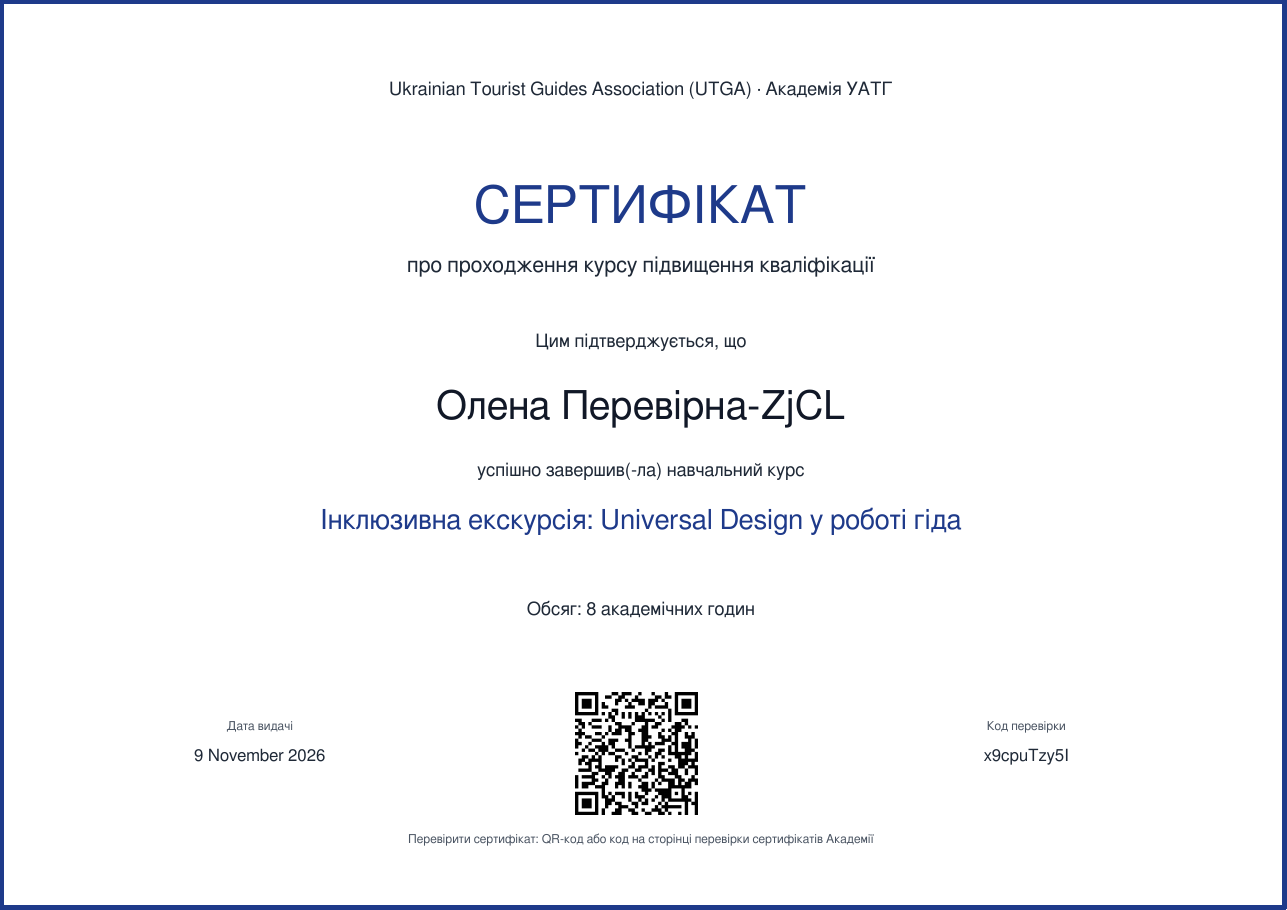
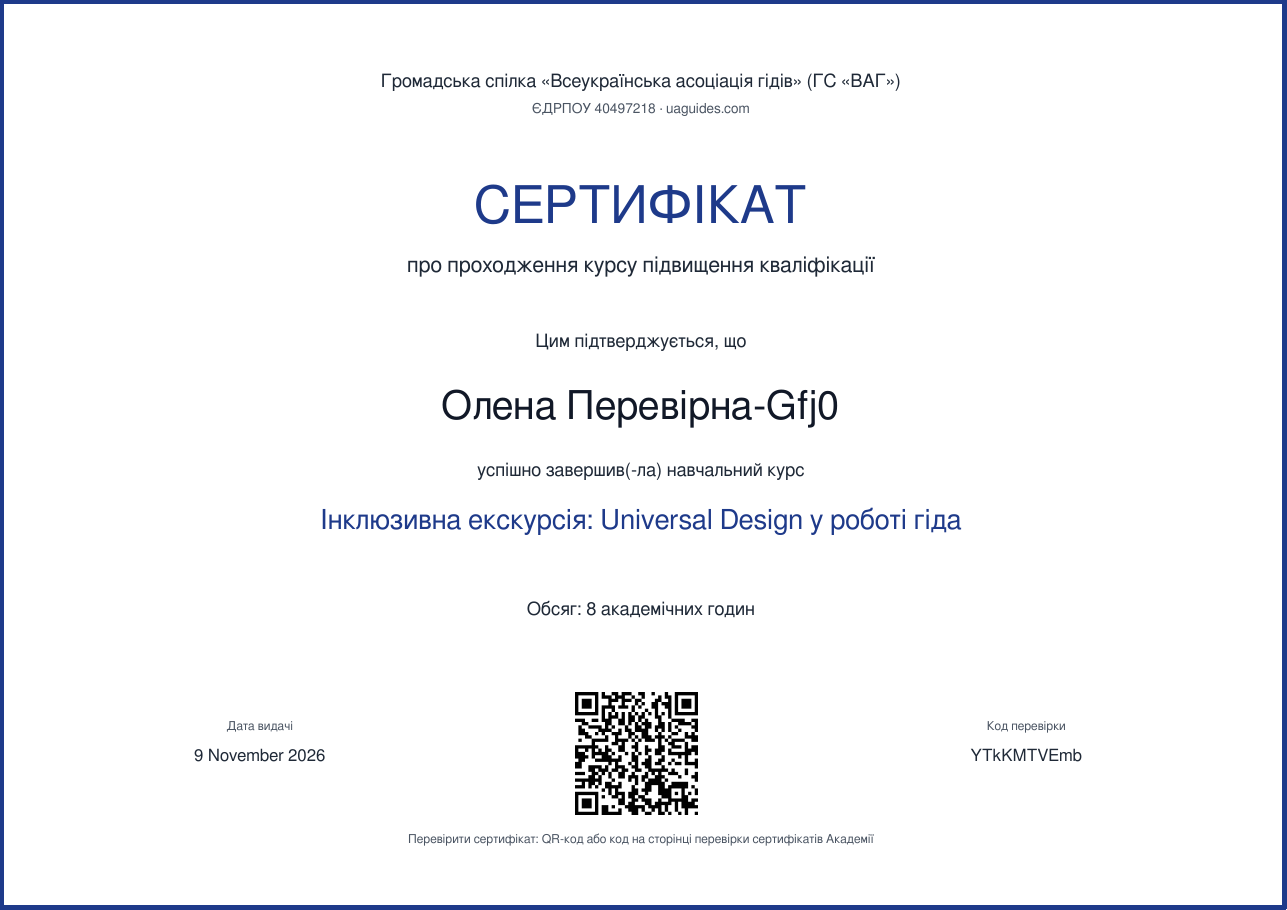
Назва організації: ГС «Всеукраїнська асоціація гідів» (ГС «ВАГ»)
- config/site.json: блок organisation (повна назва, ЄДРПОУ 40497218, uaguides.com),
  видавець бейджів — ГС «ВАГ», issuer_url — https://uaguides.com
- сертифікат: повна назва організації та рядок «ЄДРПОУ · uaguides.com»
- «Академія УАТГ» → «Академія ГС «ВАГ»» у сайті, курсах, документації
- docs/deploy-psgua.md: рекомендація домену academy.uaguides.com
- оновлено знімки екрана й зразок сертифіката

Claude-Session: https://claude.ai/code/session_01WxtPCv2NaZhQq9WMLDJ8PD

diff --git a/provisioning/provision.php b/provisioning/provision.php
@@ -1,5 +1,5 @@
 <?php
-// Академія УАТГ — скрипт налаштування Moodle та збирання курсів з описів у courses/*/course.json.
+// Академія ГС «ВАГ» — скрипт налаштування Moodle та збирання курсів з описів у courses/*/course.json.
 //
 // Запуск (з будь-якої теки):
 //   php -d max_input_vars=5000 provisioning/provision.php --moodle=/шлях/до/moodle [--rebuild] [--only=UTGA-G01]
@@ -396,7 +396,10 @@ function utga_certificate_template(stdClass $cert, array $spec, array $site): vo
     };
 
     $add('border', 'Рамка', '2', 0, 12, 0, 0, 0, '#1E3A8A');
-    $add('text', 'Організація', $site['badges']['issuer_name'] . ' · ' . $site['site']['shortname'], 18, 12, 148, 250);
+    $org = $site['organisation'];
+    $add('text', 'Організація', $org['name_full'] . ' (' . $org['name_short'] . ')', 16, 12, 148, 250);
+    $add('text', 'ЄДРПОУ', 'ЄДРПОУ ' . $org['edrpou'] . ' · ' . preg_replace('#^https?://#', '', $org['url']), 23, 9, 148, 250,
+        1, '#4B5563');
     $add('text', 'Заголовок', $c['title'], 40, 34, 148, 250, 1, '#1E3A8A');
     $add('text', 'Підзаголовок', $c['subtitle'], 58, 14, 148, 250);
     $add('text', 'Підтверджує', 'Цим підтверджується, що', 76, 12, 148, 250);

diff --git a/README.md b/README.md
@@ -1,6 +1,6 @@
-# Академія УАТГ — навчальна платформа
+# Академія ГС «ВАГ» — навчальна платформа
 
-Платформа для навчання та підвищення кваліфікації **туристичних гідів** і **працівників сфери гостинності** Асоціації УАТГ.
+Платформа для навчання та підвищення кваліфікації **туристичних гідів** і **працівників сфери гостинності** Громадської спілки «Всеукраїнська асоціація гідів» (ГС «ВАГ», UTGA).
 
 - **Ядро:** Moodle 4.5 LTS (відкрите LMS) + плагін PDF-сертифікатів `mod_customcert`
 - **Мова:** українська
@@ -19,13 +19,13 @@
 | 🟢 Перевірено локально | Публічна перевірка сертифіката за кодом / QR без входу | HTTP-запит до `verify_certificate.php` → «Verified» |
 | 🟢 Перевірено локально | Бейдж Open Badges 2.0 (hosted assertion: видавець, критерії, дата) | `badges/assertion.php?...&obversion=2` повертає валідний JSON |
 | 🟢 Перевірено локально | Автоматичний аудит WCAG 2.1 A/AA (axe-core) 9 ключових сторінок — 0 порушень | `tests/a11y/check.mjs` |
-| 🟡 В розробці | Зміст двох курсів — **чернетки** структури й текстів | Потребують затвердження експертами УАТГ |
+| 🟡 В розробці | Зміст двох курсів — **чернетки** структури й текстів | Потребують затвердження експертами ГС «ВАГ» |
 | 🟡 В розробці | Відео (з субтитрами), PDF-посібники | Створює Асоціація; на сторінках — заглушки «Відео готується» |
 | 🟡 В розробці | Прив'язка до ESCO | Поля є в `course.json` і у бейджі (alignment), але **URI ще не верифіковані** — не публікуються, доки `uri: null` |
 | 🔵 Заплановано | Розгортання на psgua.com | Потрібні відповіді від хостингу — [docs/deploy-psgua.md](docs/deploy-psgua.md) |
 | 🔵 Заплановано | Український мовний пакет Moodle | Встановлюється на сервері (у тестовому середовищі був недоступний download.moodle.org) |
 | 🔵 Заплановано | Ручний аудит доступності (клавіатура, зчитувач екрана) | Чекліст — [docs/accessibility-wcag21aa.md](docs/accessibility-wcag21aa.md) |
-| 🔵 Заплановано | Портал УАТГ на React (варіант C) | Після запуску ядра; онлайн-перевірку вже забезпечує Moodle |
+| 🔵 Заплановано | Портал ГС «ВАГ» на React (варіант C) | Після запуску ядра; онлайн-перевірку вже забезпечує Moodle |
 
 > **Важливо:** автоматичний аудит axe-core виявляє лише частину проблем доступності. «0 порушень» ≠ відповідність WCAG 2.1 AA. Відповідність заявляється лише після ручного аудиту.
 

diff --git a/docs/deploy-psgua.md b/docs/deploy-psgua.md
@@ -11,9 +11,9 @@
 | 3 | Розширення PHP: `pgsql` або `mysqli`, `intl`, `mbstring`, `xml`, `zip`, `gd`, `curl`, `sodium`, `soap`, `opcache` | Обов'язкові/рекомендовані для Moodle |
 | 4 | `max_input_vars` ≥ **5000** (php.ini) | Обов'язково для Moodle 4.5 |
 | 5 | База даних: PostgreSQL 13+ (рекомендовано) або MariaDB 10.6+ / MySQL 8.0+ | Вимога Moodle 4.5 |
-| 6 | Піддомен, напр. **academy.psgua.com**, і HTTPS-сертифікат (Let's Encrypt) | Посилання на сертифікати й бейджі мають бути стабільними та захищеними |
+| 6 | Домен платформи і HTTPS-сертифікат (Let's Encrypt). Рекомендовано **academy.uaguides.com** (DNS-запис на сервер psgua.com) — посилання для перевірки сертифікатів і бейджів тоді будуть на домені Асоціації | Посилання на сертифікати й бейджі мають бути стабільними, захищеними й упізнаваними |
 | 7 | Cron щохвилини: `php admin/cli/cron.php` | Завершення курсів, видача бейджів, листи |
-| 8 | SMTP для листів (адреса `noreply@psgua.com`) | Сповіщення, відновлення пароля, бейджі |
+| 8 | SMTP для листів (адреса на кшталт `noreply@uaguides.com`) | Сповіщення, відновлення пароля, бейджі |
 | 9 | Резервне копіювання (база + `moodledata`) щодня | Захист даних слухачів і виданих сертифікатів |
 | 10 | Доступ сервера до `download.moodle.org` | Встановлення українського мовного пакета |
 
@@ -31,7 +31,7 @@ scripts/install-moodle.sh /var/www/moodle
 
 1. Створити базу даних і користувача.
 2. Створити теку даних поза веб-коренем, напр. `/var/moodledata` (власник — користувач вебсервера).
-3. Встановити Moodle: веб-майстер `https://academy.psgua.com/install.php` або `admin/cli/install.php`.
+3. Встановити Moodle: веб-майстер `https://<домен платформи>/install.php` або `admin/cli/install.php`.
 4. Застосувати налаштування й зібрати курси:
 
 ```bash
@@ -45,6 +45,7 @@ php -d max_input_vars=5000 provisioning/provision.php --moodle=/var/www/moodle
 
 ## 4. Що лишається вирішити Асоціації
 
-- Офіційна українська назва Асоціації та контактна адреса видавця бейджів (`config/site.json`, поля з `TODO`).
+- Контактна адреса видавця бейджів (`config/site.json`, поле `issuer_contact`).
+- Домен платформи: `academy.uaguides.com` (рекомендовано) чи піддомен psgua.com.
 - Політика конфіденційності та обробки персональних даних (Moodle має інструмент `tool_dataprivacy`).
 - Хто адмініструє платформу (оновлення безпеки Moodle виходять щомісяця).

diff --git a/docs/architecture.md b/docs/architecture.md
@@ -9,7 +9,7 @@
 | Цифрові бейджі | Вбудовані бейджі Moodle, Open Badges 2.0 (hosted verification) | 🟢 перевірено локально |
 | Компетентності (ESCO) | Поле `competences` у `course.json` → alignment у бейджі | 🟡 механізм є, URI не верифіковані |
 | Наповнення | Опис курсів у Git (`course.json`, `questions.gift`) → `provision.php` | 🟢 перевірено локально |
-| Портал УАТГ (React/Vite) | Каталог, профілі гідів, публічний реєстр | 🔵 заплановано (етап 2) |
+| Портал ГС «ВАГ» (React/Vite) | Каталог, профілі гідів, публічний реєстр | 🔵 заплановано (етап 2) |
 
 ## Чому зміст у Git, а не лише в інтерфейсі Moodle
 
@@ -43,7 +43,7 @@
 
 ## Відмінності від платформи Moco (umir.com.ua)
 
-| Moco | Академія УАТГ | Примітка |
+| Moco | Академія ГС «ВАГ» | Примітка |
 |---|---|---|
 | Комерційна тема `boost_moco_v3` | Стандартна тема Boost | Можна додати фірмовий стиль окремо |
 | Анкети за «тегом користувача» | Поле профілю «Категорія слухача» + `availability_profile` | Поле створюється; умовні анкети — за потреби |
